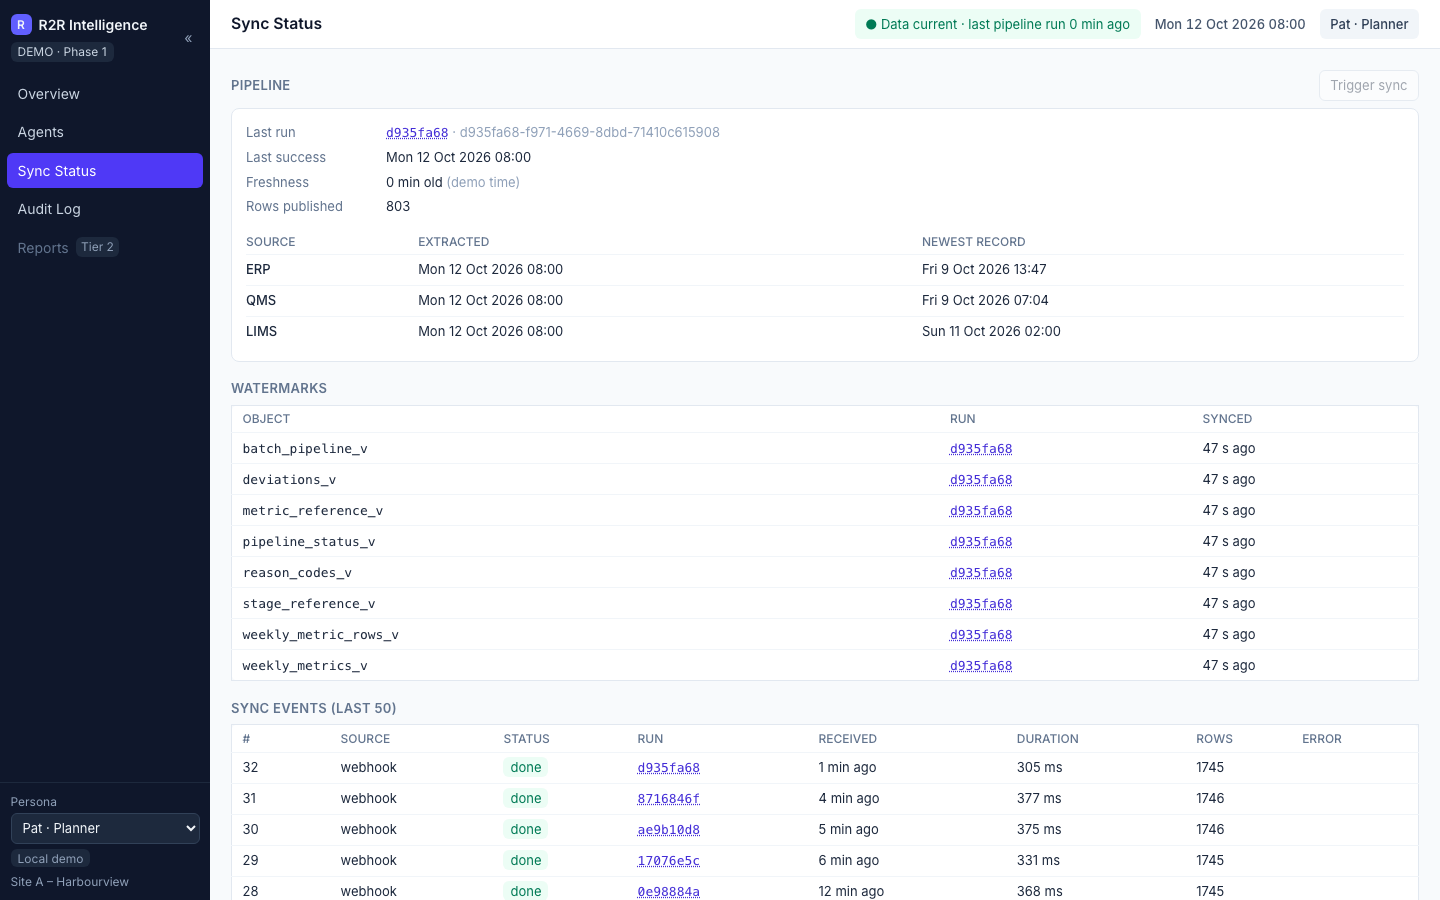
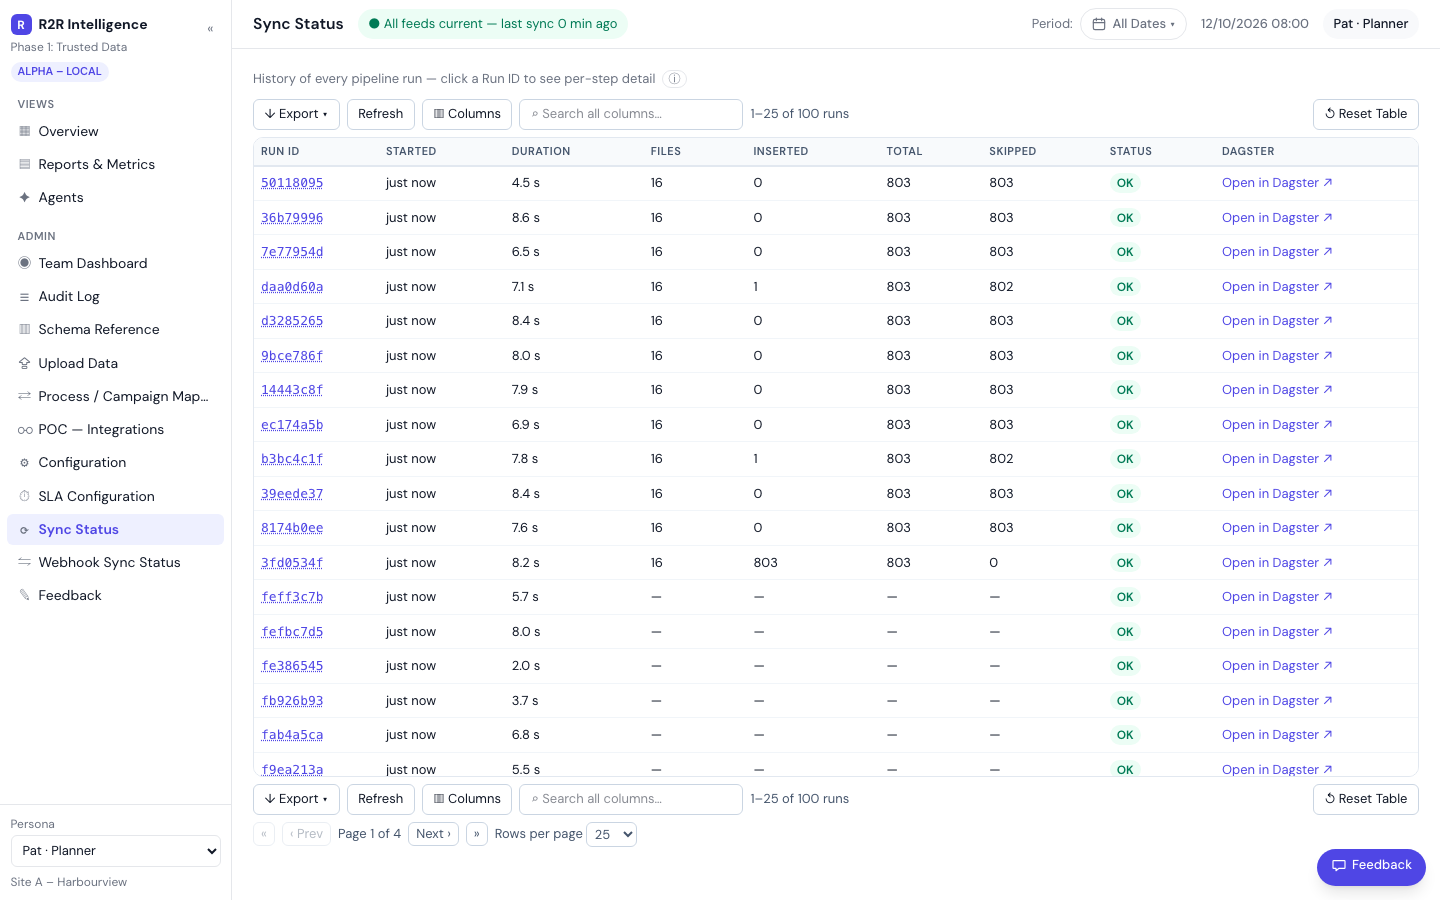
feat(F21): screenshots, tag no-wrap, SLA table alignment, queue-idle wait in the AC-03 stack test, README and .env.example notes [F21-AC-07]

diff --git a/frontend/src/pages/admin/SlaConfig.tsx b/frontend/src/pages/admin/SlaConfig.tsx
@@ -80,14 +80,14 @@ export function SlaConfig() {
               </thead>
               <tbody>
                 {metrics.map((metric) => (
-                  <tr key={metric.metric_id} data-testid="sla-metric" className="border-t border-hairline align-top">
+                  <tr key={metric.metric_id} data-testid="sla-metric" className="border-t border-hairline">
                     <td className="px-3 py-2 font-medium">
                       {metric.metric_id} · {metric.label}
                     </td>
-                    <td className="px-3 whitespace-normal">{dash(metric.entry_event)}</td>
-                    <td className="px-3 whitespace-normal">{dash(metric.exit_event)}</td>
-                    <td className="px-3">{dash(metric.sla_days)}</td>
-                    <td className="px-3">{metric.window}</td>
+                    <td className="px-3 py-2 whitespace-normal">{dash(metric.entry_event)}</td>
+                    <td className="px-3 py-2 whitespace-normal">{dash(metric.exit_event)}</td>
+                    <td className="px-3 py-2">{dash(metric.sla_days)}</td>
+                    <td className="px-3 py-2">{metric.window}</td>
                   </tr>
                 ))}
               </tbody>

diff --git a/frontend/src/components/admin/HealthCard.tsx b/frontend/src/components/admin/HealthCard.tsx
@@ -25,7 +25,7 @@ export function HealthCard({ label, value, note, tag, tone, testId, title }: Pro
       <div className="p-3">
         <div className="flex items-center gap-2 text-[11px] font-semibold tracking-wider text-ink-2 uppercase">
           {label}
-          {tag ? <span className="rounded-pill bg-panel px-1.5 py-0.5 text-[10px] text-ink-2">{tag}</span> : null}
+          {tag ? <span className="rounded-pill bg-panel px-1.5 py-0.5 text-[10px] whitespace-nowrap text-ink-2">{tag}</span> : null}
         </div>
         <div className="mt-1 text-2xl font-semibold text-ink" data-testid={`${testId}-value`}>
           {value}

diff --git a/tests/stack/test_f21_stack.py b/tests/stack/test_f21_stack.py
@@ -17,6 +17,7 @@ from typing import Any
 import httpx
 import pytest
 from deltalake import DeltaTable
+from r2r_pipeline.schemas import STAGING_SCHEMAS
 
 pytestmark = pytest.mark.stack
 
@@ -108,7 +109,7 @@ def test_f21_ac01_the_second_run_on_unchanged_data_inserts_nothing(two_runs: dic
     second = runs[two_runs["second"]]
     assert second["inserted"] == 0 and second["skipped"] == second["total"] > 600
     assert second["status"] == "ok" and second["failed_step"] is None
-    assert second["files"] == 18 and second["duration_ms"] > 0
+    assert second["files"] == len(STAGING_SCHEMAS) and second["duration_ms"] > 0
 
 
 def test_f21_ac01_a_changed_lot_is_inserted_by_the_next_run(two_runs: dict[str, str]) -> None:
@@ -143,6 +144,8 @@ def test_f21_fr02_the_app_serves_the_history_newest_first_with_per_step_detail(
 def test_f21_ac03_cards_at_rest_then_a_stopped_worker_lets_pending_rise_and_last_drain_age(
     two_runs: dict[str, str],
 ) -> None:
+    # At rest means the queue has caught up with the runs the earlier tests started.
+    _wait_for(lambda: _get("/api/sync/health")["pending"] == 0, 30, "the queue to be idle")
     health = _get("/api/sync/health")
     assert (health["pending"], health["error"], health["abandoned"]) == (0, 0, 0)
     assert health["last_drain_age_seconds"] is not None and health["last_drain_age_seconds"] < 30

diff --git a/README.md b/README.md
@@ -57,6 +57,7 @@ delivers them.
 | `make integration` | Tests that need Postgres (starts the compose Postgres) |
 | `make stack-test` | Acceptance tests against an isolated copy of the stack (own project and ports, torn down afterwards); the demo stack is untouched |
 | `make coverage-core` | 100% branch-coverage gate on `r2r_core.sla` and `r2r_core.airgap` (part of `make check`) |
+| `make contract-json` | Regenerate `specs/contract.json`, the published contract the Schema Reference page shows (F21); `make check` fails when it is stale |
 | `uv run python -m app_api.openapi`, then `npm run gen:api` in `frontend/` | Re-export the API schema (`services/app_api/openapi.json`, a test keeps it current) and regenerate the TypeScript client types (F09) |
 | `make demo-reset` | Wipe state and rebuild the canonical opening state (F13) |
 | `make seed` | Regenerate the `site_a` source data with the profile seed (wipes the three source DBs) from the host against the running stack, then run `make pipeline` |

diff --git a/specs/features/F21-sync-admin-pages/tasks.md b/specs/features/F21-sync-admin-pages/tasks.md
@@ -7,4 +7,4 @@
 - [x] T6 [TDD] Team dashboard endpoint + page (FR-06, AC-05)
 - [x] T7 `contract.json` generator + CI check + Schema Reference page (FR-06, AC-06)
 - [x] T8 SLA Configuration page, placeholders, Audit Log move, Feedback list (FR-06)
-- [ ] T9 Remove deprecated endpoints, redirect `/sync` (FR-07). Playwright, screenshots, spec check, PR (AC-07)
+- [x] T9 Remove deprecated endpoints, redirect `/sync` (FR-07). Playwright, screenshots, spec check, PR (AC-07)
